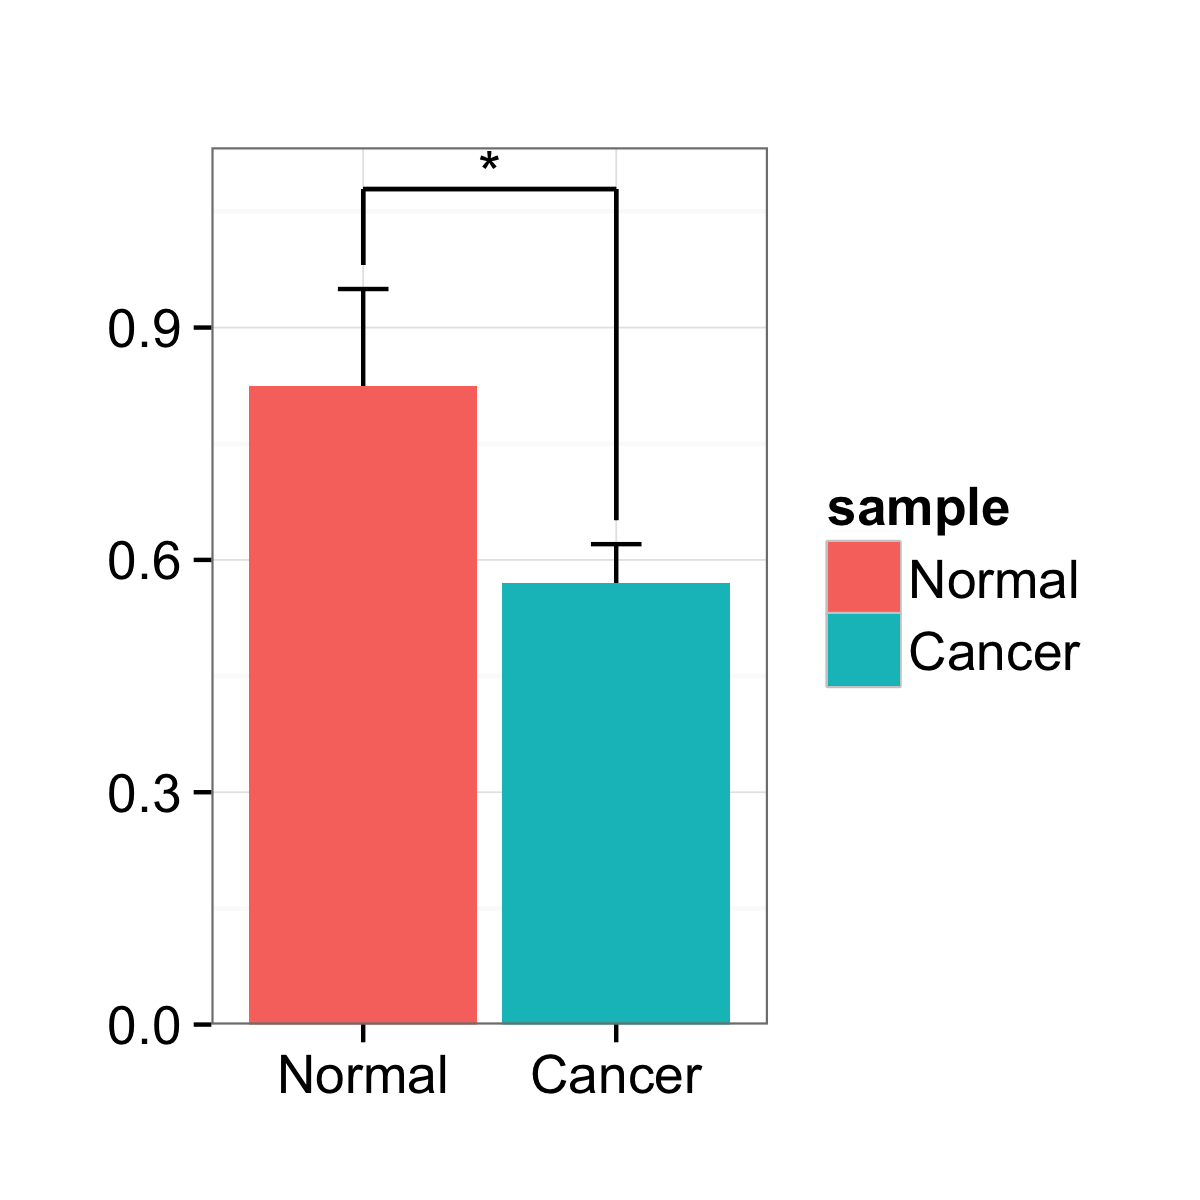
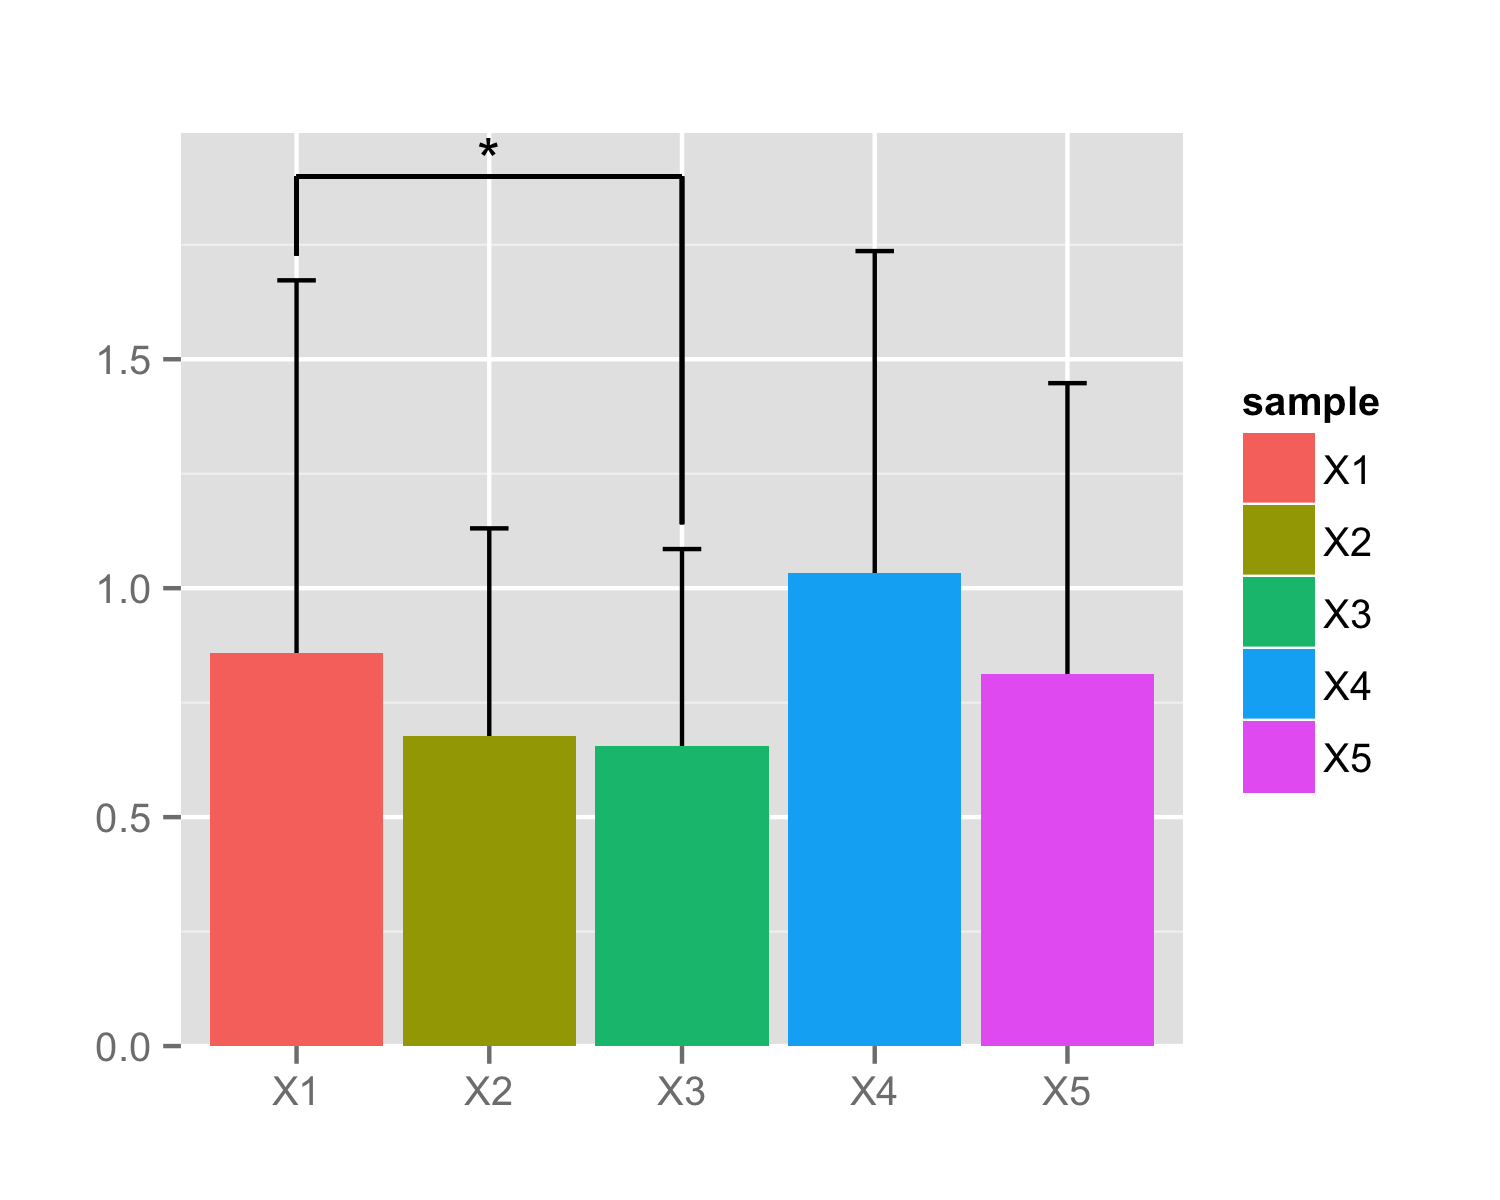
barplot demo

diff --git a/README.md b/README.md
@@ -3,8 +3,8 @@
 ## DEMO ##
 ### barplot ###
 ```
- df <- data.frame(Normal=c(0.83,0.79,0.99,0.69), Cancer=c(0.56,0.56,0.64,0.52))
-barplot(df, barIndex=c(1,2), label="*") + theme_bw(base_size=16)
+x=data.frame(matrix(abs(rnorm(100)), ncol=5))
+barplot(x, barIndex=c(1,3), label="*")
 ```
 ![](inst/extdata/figures/barplot.png)
 ## Authors ##
